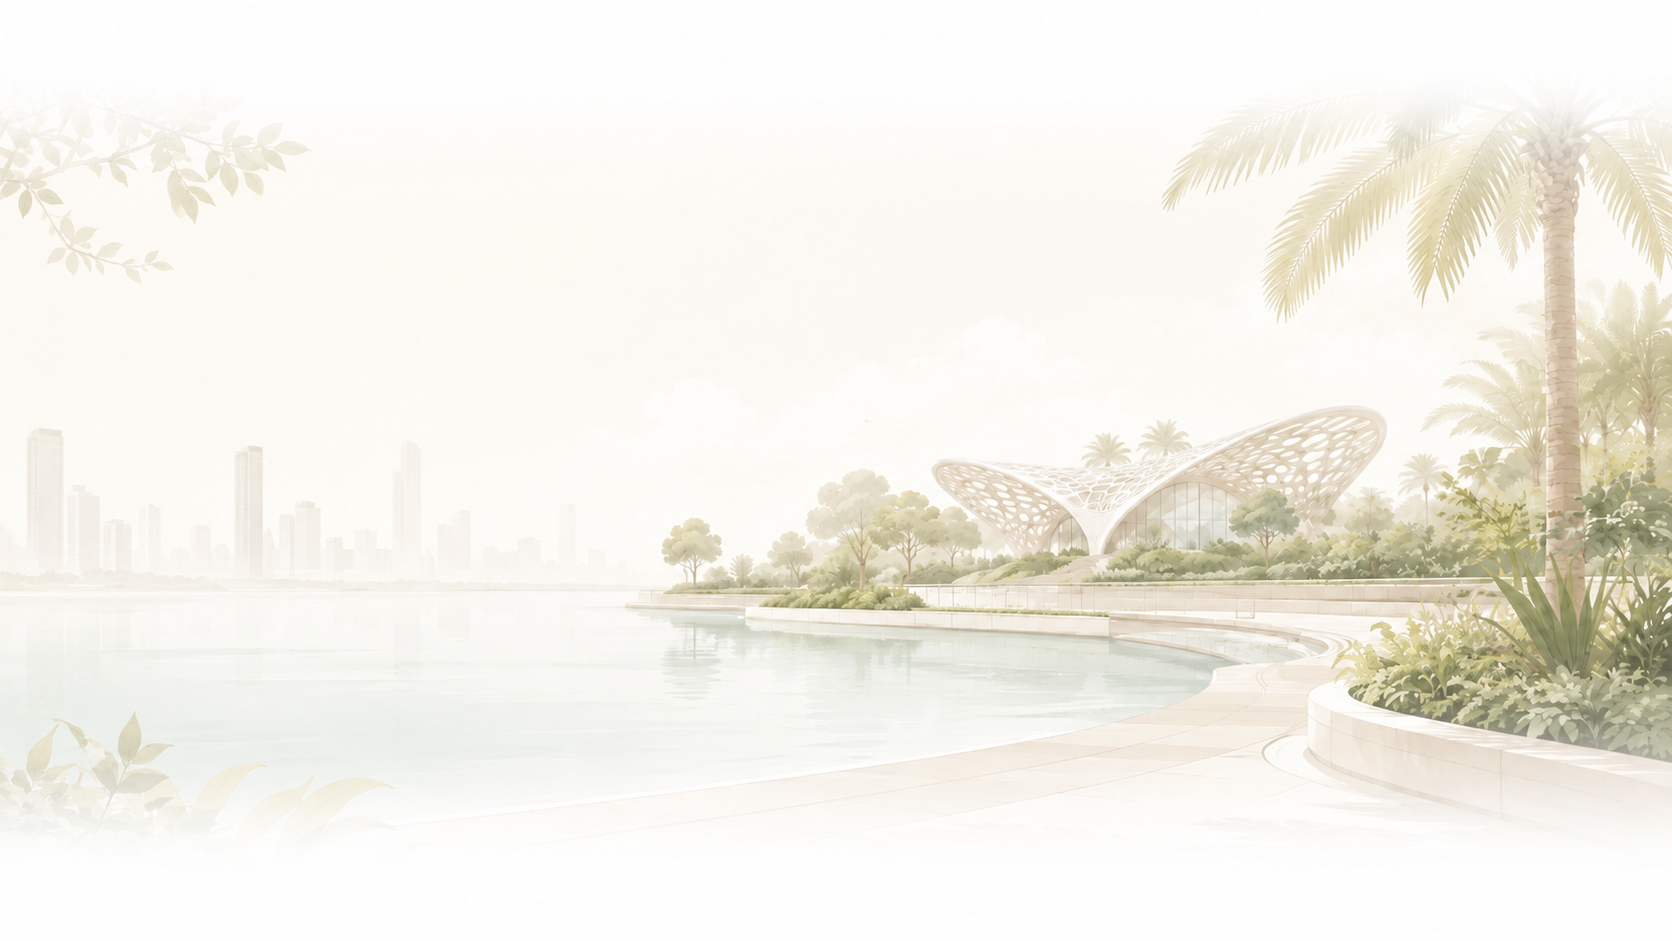
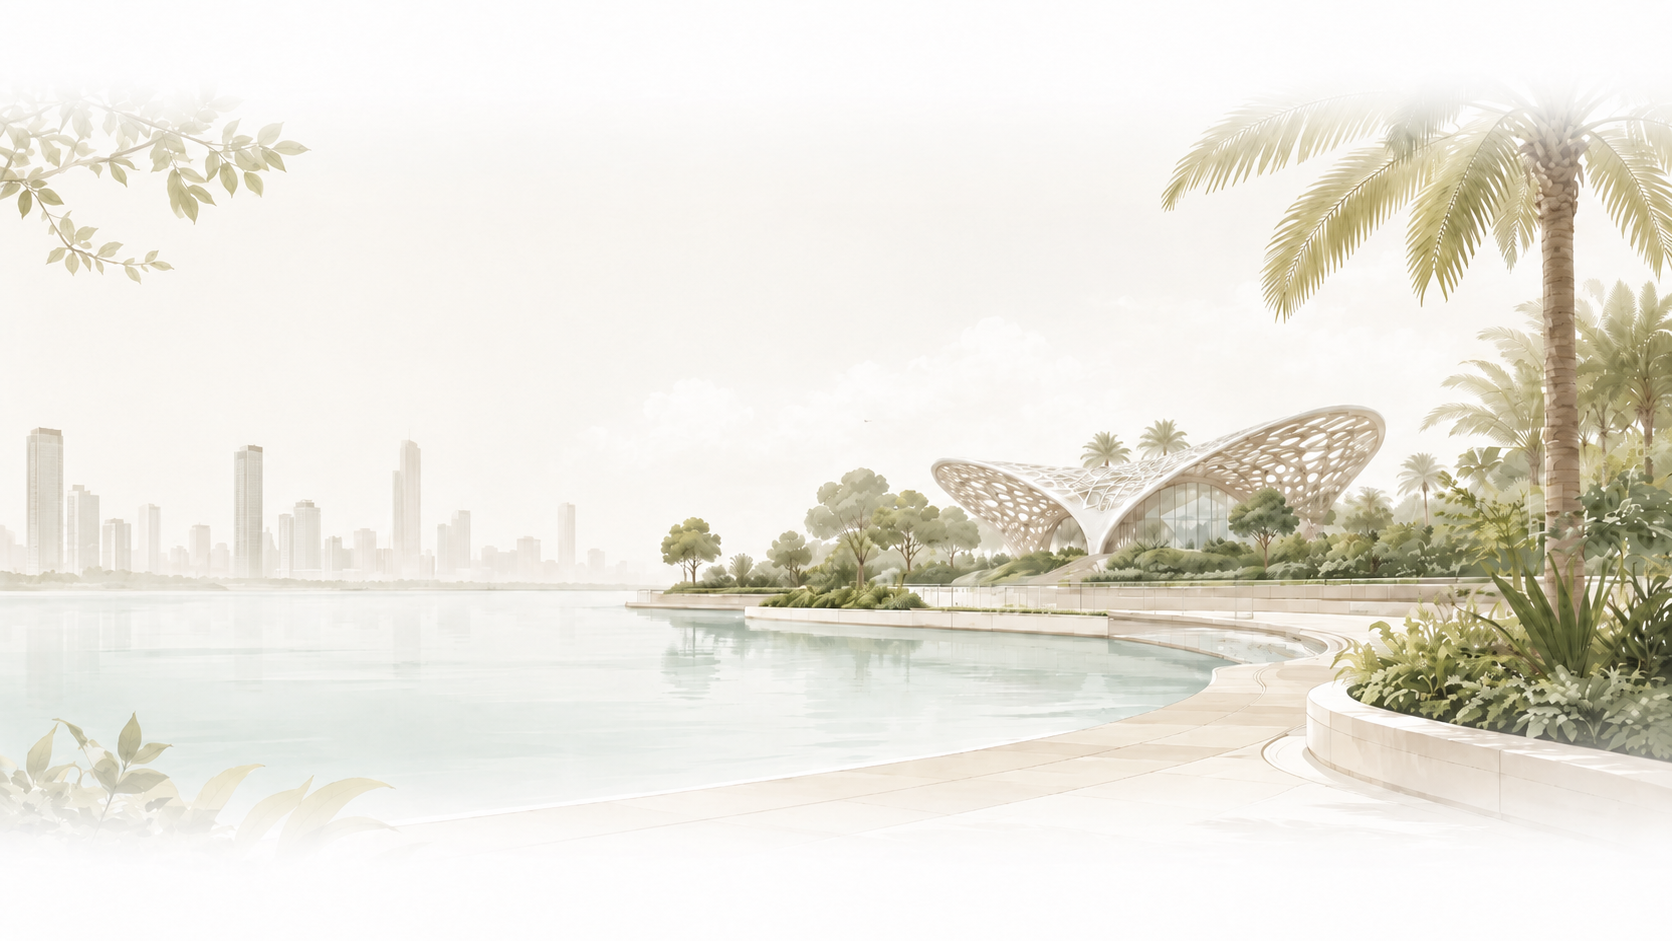
Remove heavy scrim from section backgrounds
The full-height background/45 wash made the watercolor art look faded.
Replaced with thin 96px top/bottom edge fades only — the art now shows
at full strength through the section seams.

diff --git a/src/app/page.tsx b/src/app/page.tsx
@@ -378,7 +378,11 @@ export default function HomePage() {
         </div>
         <div
           aria-hidden
-          className="pointer-events-none absolute inset-0 -z-10 bg-gradient-to-b from-background via-background/45 to-background"
+          className="pointer-events-none absolute inset-x-0 top-0 -z-10 h-24 bg-gradient-to-b from-background to-transparent"
+        />
+        <div
+          aria-hidden
+          className="pointer-events-none absolute inset-x-0 bottom-0 -z-10 h-24 bg-gradient-to-t from-background to-transparent"
         />
       <Section id="about" className="pt-4 sm:pt-8">
         <SectionHeader
@@ -543,7 +547,11 @@ export default function HomePage() {
         </div>
         <div
           aria-hidden
-          className="pointer-events-none absolute inset-0 -z-10 bg-gradient-to-b from-background via-background/45 to-background"
+          className="pointer-events-none absolute inset-x-0 top-0 -z-10 h-24 bg-gradient-to-b from-background to-transparent"
+        />
+        <div
+          aria-hidden
+          className="pointer-events-none absolute inset-x-0 bottom-0 -z-10 h-24 bg-gradient-to-t from-background to-transparent"
         />
       <Section id="maintenance">
         <SectionHeader
